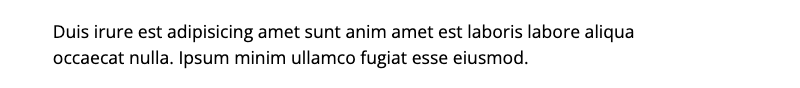
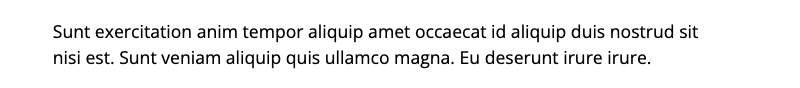
fix: allow multiple paragraphs in prismic

Changed region(s): [[0.0625, 0.2727, 0.875, 0.4773], [0.0625, 0.5682, 0.8125, 0.7727]]

diff --git a/.slicemachine/assets/slices/ArticleSlice/index.stories.js b/.slicemachine/assets/slices/ArticleSlice/index.stories.js
@@ -18,7 +18,7 @@ export const _Default = () => ({
   },
   data() {
     return {
-      mock: {"variation":"default","name":"Default","slice_type":"article_slice","items":[{"content":[{"type":"paragraph","text":"Fugiat anim consectetur duis ullamco cillum irure occaecat adipisicing et veniam ex aliqua id quis magna. Do excepteur esse quis enim consequat ut non incididunt cupidatat et est. Labore laborum nulla ea consectetur non ea sint.","spans":[]}]},{"content":[{"type":"paragraph","text":"Nulla duis in ex laboris commodo adipisicing officia aute fugiat non eu nisi nulla consectetur culpa. Adipisicing anim exercitation adipisicing labore quis consequat ex labore eiusmod ea minim sint ad.","spans":[]}]}],"primary":{},"id":"_Default"}
+      mock: {"variation":"default","name":"Default","slice_type":"article_slice","items":[{"content":[{"type":"paragraph","text":"Cupidatat eu culpa nulla ut aliquip non dolor sunt enim.","spans":[]}]},{"content":[{"type":"paragraph","text":"Nisi cillum aute est mollit dolor excepteur est. Non incididunt sunt Lorem mollit pariatur pariatur veniam eu aute laboris. Duis nisi laboris eiusmod ipsum id incididunt consectetur ullamco.","spans":[]}]},{"content":[{"type":"paragraph","text":"Elit minim aute sunt fugiat nisi et cillum incididunt ullamco ad nisi proident in qui. Deserunt minim consequat eu reprehenderit esse tempor. Proident dolore commodo veniam ullamco voluptate ea dolor nostrud.","spans":[]}]}],"primary":{},"id":"_Default"}
     }
   },
   template: '<SliceZone :slices="[mock]" :resolver="resolve" />'
@@ -37,7 +37,7 @@ export const _Single = () => ({
   },
   data() {
     return {
-      mock: {"variation":"single","name":"single","slice_type":"article_slice","items":[],"primary":{"content":[{"type":"paragraph","text":"Duis irure est adipisicing amet sunt anim amet est laboris labore aliqua occaecat nulla. Ipsum minim ullamco fugiat esse eiusmod.","spans":[]}]},"id":"_Single"}
+      mock: {"variation":"single","name":"single","slice_type":"article_slice","items":[],"primary":{"content":[{"type":"paragraph","text":"Sunt exercitation anim tempor aliquip amet occaecat id aliquip duis nostrud sit nisi est. Sunt veniam aliquip quis ullamco magna. Eu deserunt irure irure.","spans":[]}]},"id":"_Single"}
     }
   },
   template: '<SliceZone :slices="[mock]" :resolver="resolve" />'
@@ -56,7 +56,7 @@ export const _ImgLeft = () => ({
   },
   data() {
     return {
-      mock: {"variation":"imgLeft","name":"imgLeft","slice_type":"article_slice","items":[],"primary":{"img":{"dimensions":{"width":900,"height":500},"alt":"Placeholder image","copyright":null,"url":"https://images.unsplash.com/photo-1544731612-de7f96afe55f?w=900&h=500&fit=crop"},"content":[{"type":"paragraph","text":"Aliquip elit officia ad culpa eu veniam. Magna excepteur consectetur veniam eiusmod laboris mollit do et irure.","spans":[]}]},"id":"_ImgLeft"}
+      mock: {"variation":"imgLeft","name":"imgLeft","slice_type":"article_slice","items":[],"primary":{"img":{"dimensions":{"width":900,"height":500},"alt":"Placeholder image","copyright":null,"url":"https://images.unsplash.com/photo-1591012911207-0dbac31f37da?w=900&h=500&fit=crop"},"content":[{"type":"paragraph","text":"Officia ullamco adipisicing qui laborum.","spans":[]}]},"id":"_ImgLeft"}
     }
   },
   template: '<SliceZone :slices="[mock]" :resolver="resolve" />'
@@ -75,7 +75,7 @@ export const _ImgRight = () => ({
   },
   data() {
     return {
-      mock: {"variation":"imgRight","name":"imgRight","slice_type":"article_slice","items":[],"primary":{"img":{"dimensions":{"width":900,"height":500},"alt":"Placeholder image","copyright":null,"url":"https://images.unsplash.com/photo-1493119508027-2b584f234d6c?w=900&h=500&fit=crop"},"content":[{"type":"paragraph","text":"Magna non cillum sit voluptate nostrud ea Lorem cillum eu. Qui veniam irure deserunt tempor sint qui magna. Tempor excepteur incididunt do dolore nulla ad do id in ullamco.","spans":[]}]},"id":"_ImgRight"}
+      mock: {"variation":"imgRight","name":"imgRight","slice_type":"article_slice","items":[],"primary":{"img":{"dimensions":{"width":900,"height":500},"alt":"Placeholder image","copyright":null,"url":"https://images.unsplash.com/photo-1494173853739-c21f58b16055?w=900&h=500&fit=crop"},"content":[{"type":"paragraph","text":"Et aute veniam deserunt aute. Ex culpa enim cillum tempor dolore cillum ex in eiusmod labore consequat qui. Proident consectetur pariatur nisi.","spans":[]}]},"id":"_ImgRight"}
     }
   },
   template: '<SliceZone :slices="[mock]" :resolver="resolve" />'
